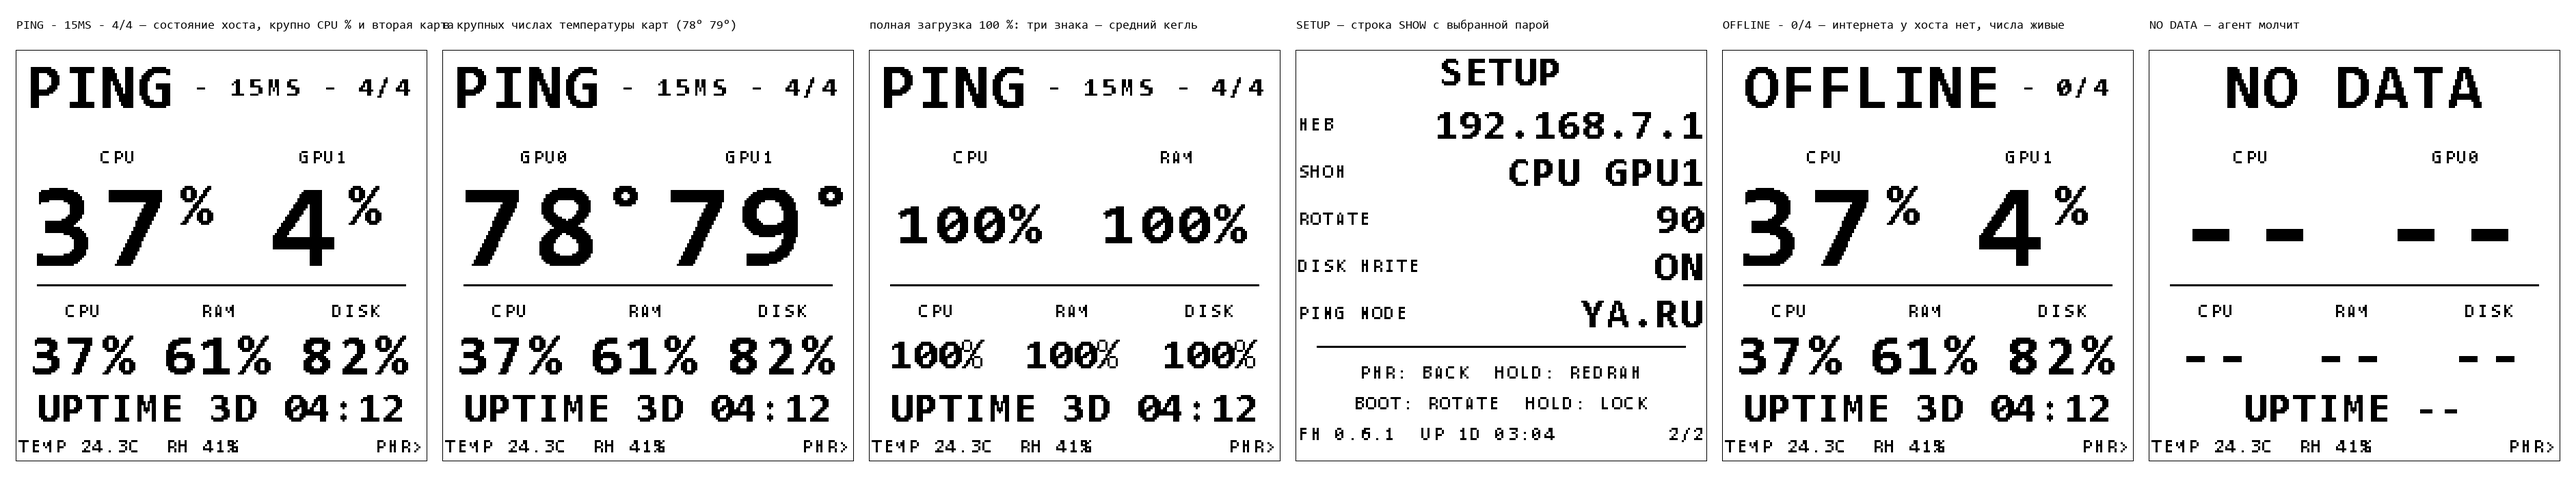
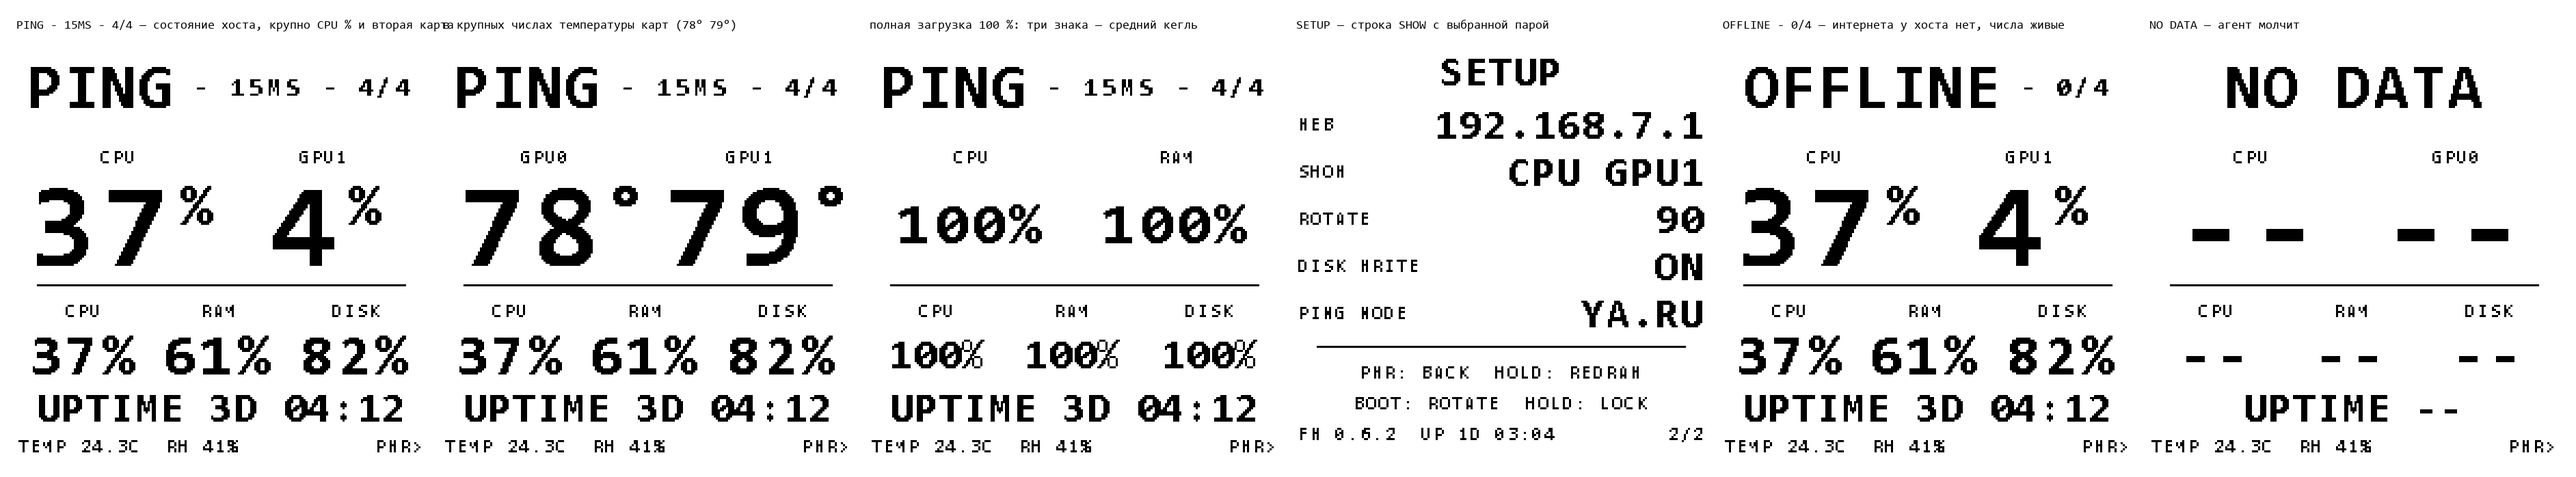
0.6.2-idf: сводный экран без рамок, слово и ответы пинга крупнее в 1.5 раза (кегли ping/txt9), подписи ниже, заголовок SETUP без рамки

diff --git a/tools/make_agent_kit.py b/tools/make_agent_kit.py
@@ -140,7 +140,7 @@ GPU0 %, GPU1 %, "GPU: вторая, иначе первая", GPU0 °C, GPU1 °C
 
 Короткое нажатие PWR переключает сводный экран и SETUP. На SETUP видно адрес прибора,
 строку SHOW (что стоит в крупных числах), строку PING NODE (узел проверки интернета) и
-версию прошивки. Прошивка 0.6.1 и новее.
+версию прошивки. Прошивка 0.6.2 и новее.
 
 Что агент делает
 ----------------
@@ -328,7 +328,7 @@ driver) the device shows a dash, not a zero.
 
 A short PWR press switches between the summary screen and SETUP. SETUP shows the device
 address, the SHOW line (what is in the large numbers), the PING NODE line (the node used for
-the internet check) and the firmware version. Firmware 0.6.1 or newer.
+the internet check) and the firmware version. Firmware 0.6.2 or newer.
 
 What the agent does
 -------------------

diff --git a/tools/preview/render.py b/tools/preview/render.py
@@ -137,7 +137,8 @@ def main() -> int:
     x = gap
     for title, img in imgs:
         sheet.paste(img.resize((W * SCALE, H * SCALE), Image.NEAREST), (x, 2 * gap + 26))
-        sd.rectangle([x - 1, 2 * gap + 25, x + W * SCALE, 2 * gap + 26 + H * SCALE], outline=0)
+        # Рамку вокруг кадра не рисуем: на самой панели её нет, а в макете она читалась
+        # как часть экрана (пользователь дважды просил её убрать — 23.09).
         sd.text((x, gap + 4), title, font=label, fill=0)
         x += W * SCALE + gap
     OUT_PNG.parent.mkdir(parents=True, exist_ok=True)

diff --git a/idf/main/main.c b/idf/main/main.c
@@ -66,7 +66,7 @@
 #define PING_TARGET_NAME "ya.ru"     /* цель пинга по умолчанию (значение хранится в настройках) */
 #define PING_TARGET_IP   "77.88.55.242"   /* запасной адрес, если DNS не отвечает */
 #define BOOT_GPIO     0
-#define FW_VERSION    "0.6.1-idf"
+#define FW_VERSION    "0.6.2-idf"
 
 static const char *TAG = "eink";
 static esp_netif_t *s_netif = NULL;

diff --git a/tools/preview/preview_main.c b/tools/preview/preview_main.c
@@ -26,7 +26,7 @@ static void base(screen_state_t *st)
     memset(st, 0, sizeof(*st));
     st->dev_ip = "192.168.7.1";
     st->up_s = 97440;                 /* 1 д 03:04 */
-    st->fw = "0.6.1";
+    st->fw = "0.6.2";
     st->ping_target = "YA.RU";
     st->rotation = 90;
     st->disk_write_lock = false;
